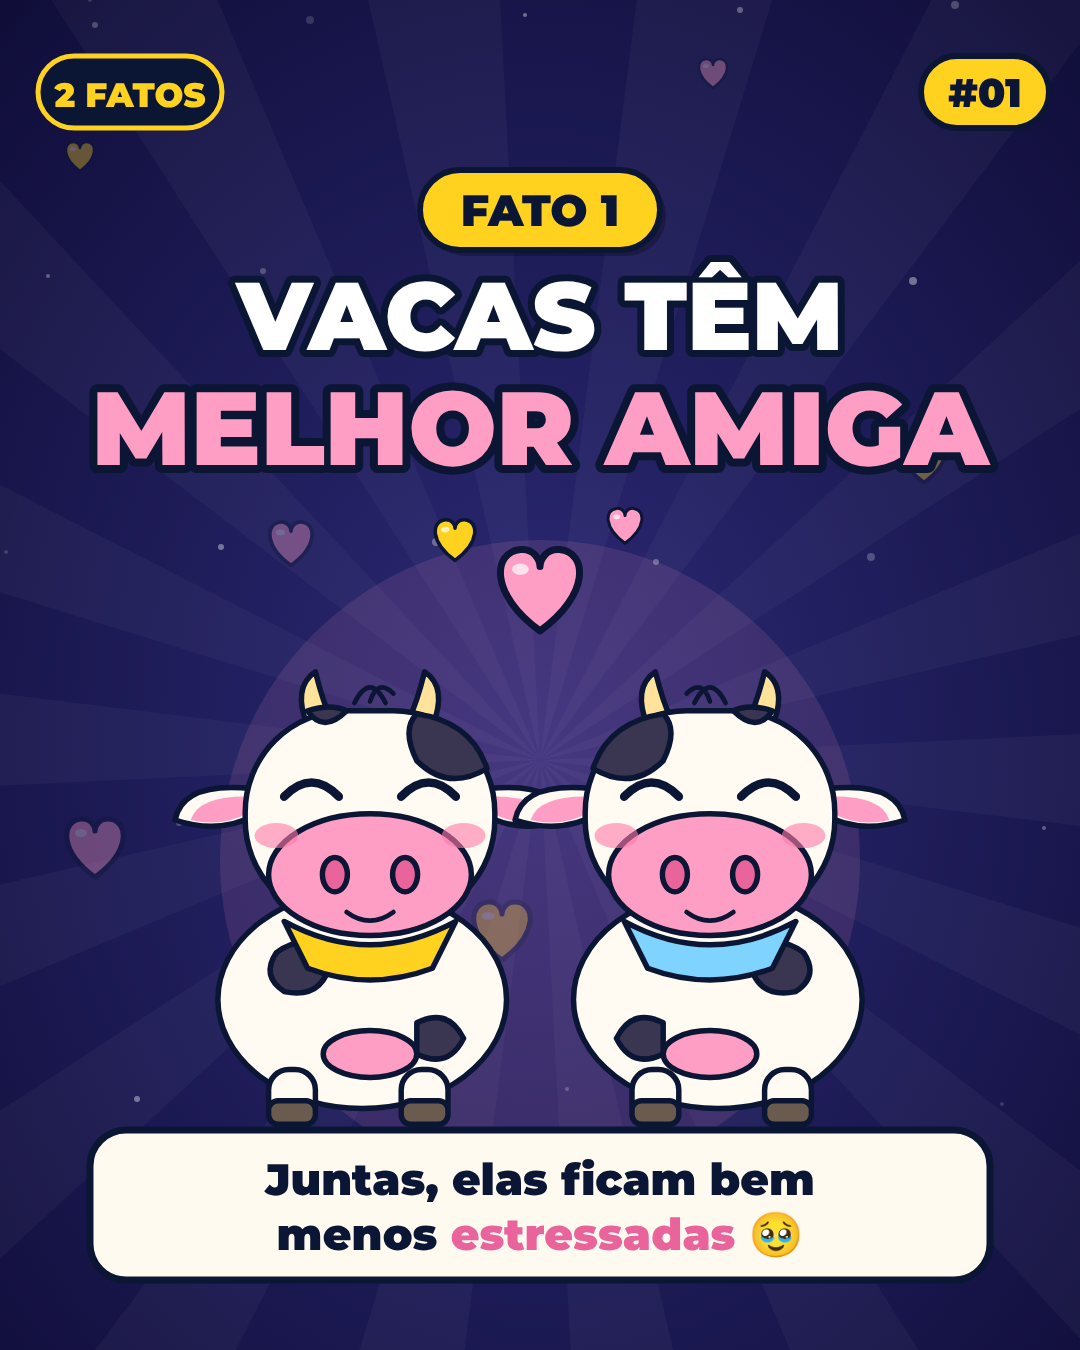
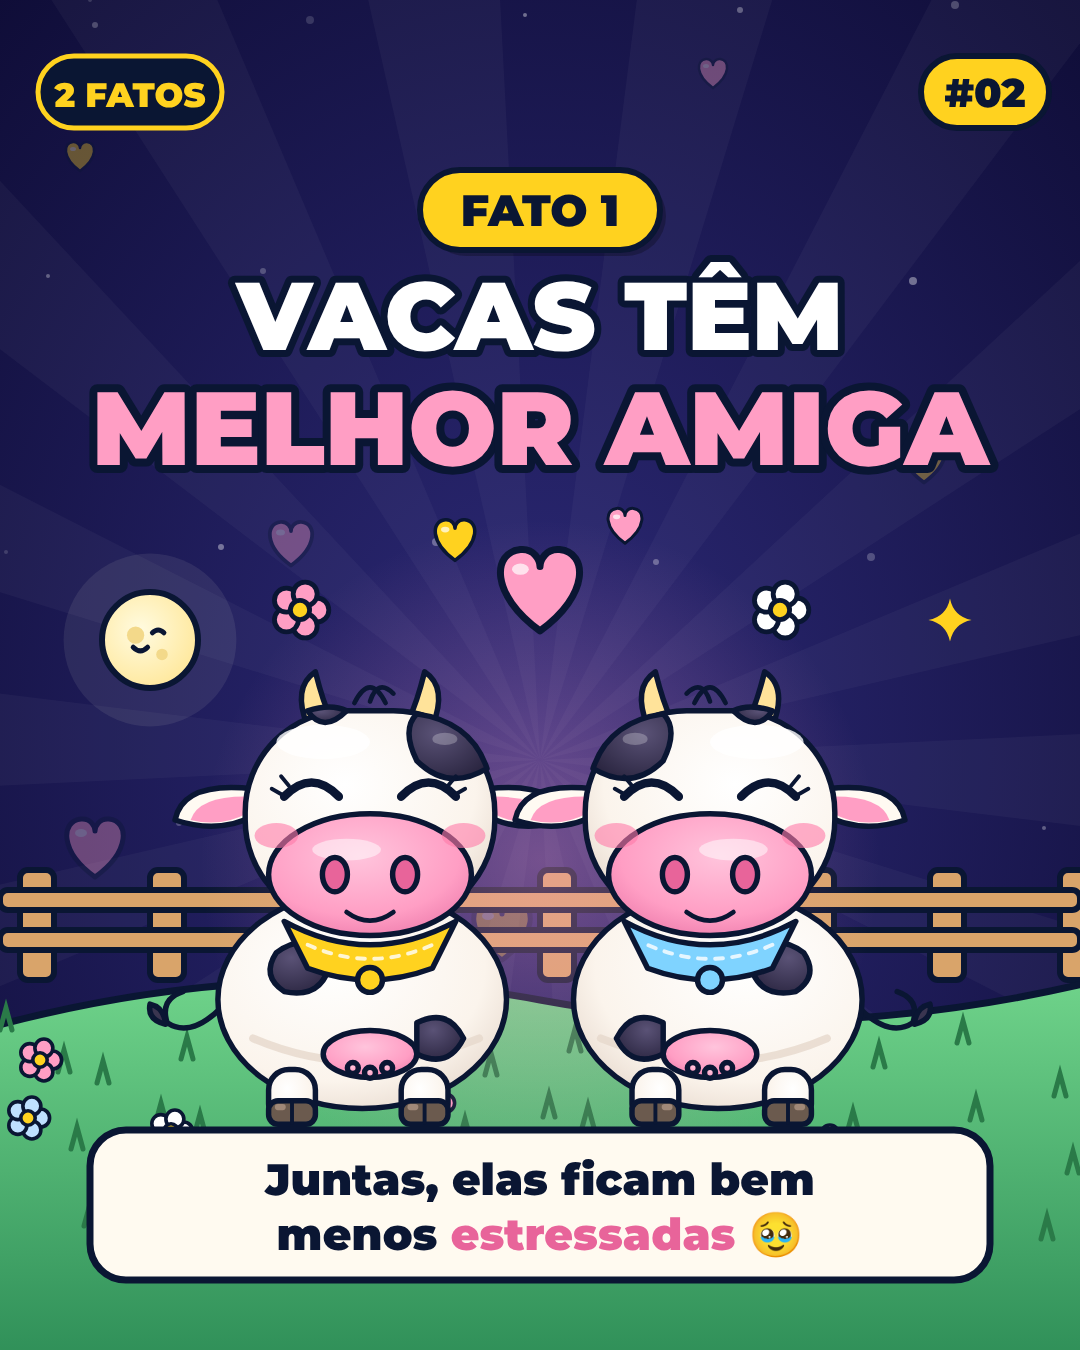
Carrossel fofinhos: mais detalhe + numeração por slide
Claude-Session: https://claude.ai/code/session_01466fSmg3pKuf6zqbkMuRWf

diff --git a/carrosseis/01-fofinhos/gerar.js b/carrosseis/01-fofinhos/gerar.js
@@ -3,7 +3,7 @@ const art=fs.readFileSync('/home/claude/oficina-remotion/src/art.js','utf8').rep
 const font='data:font/woff2;base64,'+fs.readFileSync('/home/claude/oficina-remotion/public/fonts/mont900.woff2').toString('base64');
 const lib=`
 const W=1080,H=1350, PK='#ff9ec4', PKD='#e8649a', CR='#fff4e6', BLU='#7fd3ff';
-function fundo(seed){ let o='<defs><radialGradient id="cbg" cx=".5" cy=".55" r=".8"><stop offset="0" stop-color="#2d2a78"/><stop offset="1" stop-color="#0d0b33"/></radialGradient></defs><rect width="1080" height="1350" fill="url(#cbg)"/>';
+function fundo(seed){ let o=defsFofo()+'<defs><radialGradient id="cbg" cx=".5" cy=".55" r=".8"><stop offset="0" stop-color="#2d2a78"/><stop offset="1" stop-color="#0d0b33"/></radialGradient></defs><rect width="1080" height="1350" fill="url(#cbg)"/>';
   for(let k=0;k<18;k++){const a=k*0.349+seed;o+='<path d="M540,760 L'+(540+Math.cos(a)*1600)+','+(760+Math.sin(a)*1600)+' L'+(540+Math.cos(a+0.17)*1600)+','+(760+Math.sin(a+0.17)*1600)+' Z" fill="#fff" opacity=".035"/>';}
   for(let i=0;i<26;i++){const x=(i*173+seed*90)%1080,y=(i*271)%1350,r=2+i%3; o+='<circle cx="'+x+'" cy="'+y+'" r="'+r+'" fill="#fff" opacity="'+(.15+(i%4)*.08)+'"/>';}
   for(let i=0;i<7;i++){const x=(i*211+60)%1040+20,y=(i*389+120)%1250+40,s=.5+(i%3)*.25; o+=coracao(x,y,s,i%2?PK:'#ffd21f',.35);}
@@ -13,49 +13,70 @@ function canto(n){ return '<g transform="translate(985 92)"><rect x="-64" y="-36
 function marca(){ return '<g transform="translate(130 92)"><rect x="-92" y="-36" width="184" height="72" rx="36" fill="#0a1633" stroke="#ffd21f" stroke-width="5"/><text y="15" font-family="M" font-weight="900" font-size="34" fill="#ffd21f" text-anchor="middle">2 FATOS</text></g>'; }
 function pill(x,y,txt,bg,fg,sz=44,w){ w=w||txt.length*sz*.66+70; return '<g transform="translate('+x+' '+y+')"><rect x="'+(-w/2+6)+'" y="-34" width="'+w+'" height="80" rx="40" fill="#000" opacity=".25"/><rect x="'+(-w/2)+'" y="-40" width="'+w+'" height="80" rx="40" fill="'+bg+'" stroke="#0a1633" stroke-width="6"/><text y="'+(sz*.36)+'" font-family="M" font-weight="900" font-size="'+sz+'" fill="'+fg+'" text-anchor="middle">'+txt+'</text></g>'; }
 function seta(x,y){ return '<g transform="translate('+x+' '+y+')">'+fTxt(-30,14,'DESLIZA',44,'#fff','end',10)+'<path d="M0,0 h70 m-26,-26 l26,26 l-26,26" fill="none" stroke="#ffd21f" stroke-width="14" stroke-linecap="round" stroke-linejoin="round"/></g>'; }
+
+function defsFofo(){ return '<defs>'+
+ '<radialGradient id="vBody" cx=".4" cy=".35" r=".75"><stop offset="0" stop-color="#ffffff"/><stop offset=".7" stop-color="#fbf4ec"/><stop offset="1" stop-color="#e6d8cc"/></radialGradient>'+
+ '<radialGradient id="vSpot" cx=".35" cy=".3" r=".8"><stop offset="0" stop-color="#5a5276"/><stop offset="1" stop-color="#2a2540"/></radialGradient>'+
+ '<radialGradient id="vSnout" cx=".45" cy=".35" r=".7"><stop offset="0" stop-color="#ffc4dc"/><stop offset=".7" stop-color="#ff9ec4"/><stop offset="1" stop-color="#ef7fae"/></radialGradient>'+
+ '<radialGradient id="oFur" cx=".4" cy=".3" r=".8"><stop offset="0" stop-color="#b98058"/><stop offset=".7" stop-color="#9b6a48"/><stop offset="1" stop-color="#734a30"/></radialGradient>'+
+ '<radialGradient id="oFace" cx=".5" cy=".4" r=".7"><stop offset="0" stop-color="#fff3df"/><stop offset="1" stop-color="#e9cfa8"/></radialGradient>'+
+ '<linearGradient id="gGrass" x1="0" y1="0" x2="0" y2="1"><stop offset="0" stop-color="#6fd38a"/><stop offset="1" stop-color="#2f8f58"/></linearGradient>'+
+ '<linearGradient id="gWater" x1="0" y1="0" x2="0" y2="1"><stop offset="0" stop-color="#5cc0ff"/><stop offset="1" stop-color="#1f5fb0"/></linearGradient>'+
+ '<radialGradient id="gMoon" cx=".4" cy=".4" r=".6"><stop offset="0" stop-color="#fffbe0"/><stop offset="1" stop-color="#ffe9a0"/></radialGradient>'+
+ '<radialGradient id="gGlow" cx=".5" cy=".5" r=".5"><stop offset="0" stop-color="#ff9ec4" stop-opacity=".35"/><stop offset="1" stop-color="#ff9ec4" stop-opacity="0"/></radialGradient>'+
+ '</defs>'; }
+function lua(x,y,r){ return '<circle cx="'+x+'" cy="'+y+'" r="'+(r*1.8)+'" fill="#fffbe0" opacity=".08"/><circle cx="'+x+'" cy="'+y+'" r="'+r+'" fill="url(#gMoon)" stroke="#0a1633" stroke-width="6"/><circle cx="'+(x-r*.3)+'" cy="'+(y-r*.1)+'" r="'+(r*.18)+'" fill="#f3d98a"/><circle cx="'+(x+r*.25)+'" cy="'+(y+r*.3)+'" r="'+(r*.12)+'" fill="#f3d98a"/><path d="M'+(x-r*.35)+','+(y+r*.15)+' q'+(r*.15)+','+(r*.15)+' '+(r*.3)+',0" fill="none" stroke="#0a1633" stroke-width="5" stroke-linecap="round"/><path d="M'+(x+r*.05)+','+(y-r*.15)+' q'+(r*.12)+','+(-r*.12)+' '+(r*.24)+',0" fill="none" stroke="#0a1633" stroke-width="5" stroke-linecap="round"/>'; }
+function brilho(x,y,s,c){ return '<path transform="translate('+x+' '+y+') scale('+s+')" d="M0,-24 Q4,-4 24,0 Q4,4 0,24 Q-4,4 -24,0 Q-4,-4 0,-24 Z" fill="'+c+'"/>'; }
+function flor(x,y,s,c){ let o='<g transform="translate('+x+' '+y+') scale('+s+')" stroke="#0a1633" stroke-width="4">'; for(let k=0;k<5;k++){const a=k*72*Math.PI/180; o+='<circle cx="'+(Math.cos(a)*14).toFixed(1)+'" cy="'+(Math.sin(a)*14).toFixed(1)+'" r="10" fill="'+c+'"/>';} return o+'<circle r="8" fill="#ffd21f"/></g>'; }
+function grama(y){ let o='<path d="M-20,'+(y+40)+' Q270,'+(y-40)+' 540,'+(y+10)+' T1100,'+(y-10)+' V1360 H-20 Z" fill="url(#gGrass)" stroke="#0a1633" stroke-width="7"/>';
+ for(let i=0;i<40;i++){const x=(i*97)%1080, yy=y+40+(i*53)%220; o+='<path d="M'+x+','+yy+' l6,-22 l6,22" fill="none" stroke="#2a7a48" stroke-width="5" stroke-linecap="round"/>';}
+ for(let i=0;i<9;i++) o+=flor((i*131+40)%1060,y+70+(i*71)%170,.9,['#ff9ec4','#ffffff','#bfe0ff'][i%3]);
+ return o; }
+function cerca(y){ let o='<g stroke="#0a1633" stroke-width="6" fill="#d9a46a">'; for(let x=20;x<1080;x+=130) o+='<rect x="'+x+'" y="'+(y-90)+'" width="34" height="110" rx="8"/>'; o+='<rect x="0" y="'+(y-70)+'" width="1080" height="20" rx="8"/><rect x="0" y="'+(y-30)+'" width="1080" height="20" rx="8"/></g>'; return o; }
+
 // vaca fofinha (cx,cy,s, dir 1/-1, olhos: 'aberto'|'feliz')
 function vaca(cx,cy,s,dir=1,olhos='aberto',lenco=null){
   let o='<g transform="translate('+cx+' '+cy+') scale('+(s*dir)+' '+s+')" stroke="#0a1633" stroke-width="7" stroke-linejoin="round" stroke-linecap="round">';
   // corpo
-  o+='<ellipse cx="-10" cy="230" rx="185" ry="140" fill="#fffaf2"/><path d="M-120,170 q40,-30 70,10 q-10,50 -60,40 q-30,-20 -10,-50 Z" fill="#3a3550"/><path d="M60,260 q40,-20 60,20 q-20,40 -60,20 Z" fill="#3a3550"/>';
-  o+='<rect x="-130" y="320" width="60" height="70" rx="26" fill="#fffaf2"/><rect x="40" y="320" width="60" height="70" rx="26" fill="#fffaf2"/><rect x="-130" y="360" width="60" height="30" rx="12" fill="#6b5a4e"/><rect x="40" y="360" width="60" height="30" rx="12" fill="#6b5a4e"/>';
-  o+='<ellipse cx="0" cy="300" rx="60" ry="30" fill="'+PK+'"/>';
+  o+='<path d="M-190,240 q-40,40 -70,20 q-10,-30 20,-40" fill="none" stroke-width="7"/><path d="M-262,262 q-24,-6 -20,-26 q18,4 20,26 Z" fill="#3a3550"/><ellipse cx="-10" cy="230" rx="185" ry="140" fill="url(#vBody)"/><path d="M-150,280 q140,60 290,0" fill="none" stroke="#e6d8cc" stroke-width="10" opacity=".8"/><path d="M-120,170 q40,-30 70,10 q-10,50 -60,40 q-30,-20 -10,-50 Z" fill="url(#vSpot)"/><path d="M60,260 q40,-20 60,20 q-20,40 -60,20 Z" fill="url(#vSpot)"/>';
+  o+='<rect x="-130" y="320" width="60" height="70" rx="26" fill="url(#vBody)"/><rect x="40" y="320" width="60" height="70" rx="26" fill="url(#vBody)"/><rect x="-130" y="360" width="60" height="30" rx="12" fill="#6b5a4e"/><rect x="40" y="360" width="60" height="30" rx="12" fill="#6b5a4e"/><path d="M-100,362 v26 M70,362 v26" stroke-width="5"/><rect x="-122" y="364" width="14" height="8" rx="4" fill="#a08878" stroke="none"/><rect x="48" y="364" width="14" height="8" rx="4" fill="#a08878" stroke="none"/>';
+  o+='<ellipse cx="0" cy="300" rx="60" ry="30" fill="url(#vSnout)"/><circle cx="-22" cy="318" r="7" fill="url(#vSnout)"/><circle cx="0" cy="324" r="7" fill="url(#vSnout)"/><circle cx="22" cy="318" r="7" fill="url(#vSnout)"/>';
   // orelhas e chifres
   o+='<path d="M-150,-40 q-90,-10 -100,40 q60,20 110,-10 Z" fill="#fffaf2"/><path d="M-160,-30 q-60,0 -70,30 q40,10 75,-10 Z" fill="'+PK+'" stroke="none"/>';
   o+='<path d="M150,-40 q90,-10 100,40 q-60,20 -110,-10 Z" fill="#fffaf2"/><path d="M160,-30 q60,0 70,30 q-40,10 -75,-10 Z" fill="'+PK+'" stroke="none"/>';
   o+='<path d="M-80,-120 q-20,-50 10,-70 q10,40 20,60 Z" fill="#ffe39a"/><path d="M80,-120 q20,-50 -10,-70 q-10,40 -20,60 Z" fill="#ffe39a"/>';
   // cabeça
-  o+='<rect x="-160" y="-140" width="320" height="270" rx="130" fill="#fffaf2"/>';
-  o+='<path d="M60,-136 q70,10 90,70 q-50,30 -90,-10 q-20,-40 0,-60 Z" fill="#3a3550"/><path d="M-30,-140 q-20,-10 -50,0 q20,30 50,0 Z" fill="#3a3550"/>';
+  o+='<rect x="-160" y="-140" width="320" height="270" rx="130" fill="url(#vBody)"/><ellipse cx="-60" cy="-100" rx="60" ry="22" fill="#fff" opacity=".8" stroke="none"/>';
+  o+='<path d="M60,-136 q70,10 90,70 q-50,30 -90,-10 q-20,-40 0,-60 Z" fill="url(#vSpot)"/><path d="M-30,-140 q-20,-10 -50,0 q20,30 50,0 Z" fill="url(#vSpot)"/><ellipse cx="96" cy="-104" rx="16" ry="8" fill="#fff" opacity=".25" stroke="none"/>';
   o+='<path d="M-20,-150 q20,-40 40,0" fill="none" stroke-width="6"/><path d="M0,-152 q10,-30 30,-10" fill="none" stroke-width="6"/>';
   // focinho
-  o+='<ellipse cx="0" cy="70" rx="130" ry="78" fill="'+PK+'"/><ellipse cx="-45" cy="70" rx="16" ry="22" fill="'+PKD+'"/><ellipse cx="45" cy="70" rx="16" ry="22" fill="'+PKD+'"/>';
+  o+='<ellipse cx="0" cy="70" rx="130" ry="78" fill="url(#vSnout)"/><ellipse cx="-30" cy="38" rx="44" ry="14" fill="#fff" opacity=".5" stroke="none"/><ellipse cx="-45" cy="70" rx="16" ry="22" fill="'+PKD+'"/><ellipse cx="45" cy="70" rx="16" ry="22" fill="'+PKD+'"/>';
   o+='<path d="M-30,118 q30,22 60,0" fill="none" stroke-width="6"/>';
   // olhos
-  if(olhos==='feliz') o+='<path d="M-110,-30 q35,-36 70,0" fill="none" stroke-width="11"/><path d="M40,-30 q35,-36 70,0" fill="none" stroke-width="11"/>';
+  if(olhos==='feliz') o+='<path d="M-110,-30 q35,-36 70,0" fill="none" stroke-width="11"/><path d="M40,-30 q35,-36 70,0" fill="none" stroke-width="11"/><path d="M-112,-32 l-14,-8 M-104,-44 l-10,-12 M108,-32 l14,-8 M100,-44 l10,-12" stroke-width="5"/>';
   else o+='<ellipse cx="-75" cy="-30" rx="30" ry="36" fill="#0a1633"/><ellipse cx="75" cy="-30" rx="30" ry="36" fill="#0a1633"/><circle cx="-64" cy="-44" r="11" fill="#fff" stroke="none"/><circle cx="86" cy="-44" r="11" fill="#fff" stroke="none"/><circle cx="-84" cy="-18" r="5" fill="#fff" stroke="none"/><circle cx="66" cy="-18" r="5" fill="#fff" stroke="none"/>';
   o+='<ellipse cx="-120" cy="20" rx="28" ry="16" fill="#ff7aa8" opacity=".6" stroke="none"/><ellipse cx="120" cy="20" rx="28" ry="16" fill="#ff7aa8" opacity=".6" stroke="none"/>';
   // sininho / lenço
-  if(lenco) o+='<path d="M-110,130 q110,60 220,0 l-30,60 q-80,30 -160,0 Z" fill="'+lenco+'"/>';
+  if(lenco) o+='<path d="M-110,130 q110,60 220,0 l-30,60 q-80,30 -160,0 Z" fill="'+lenco+'"/><path d="M-80,160 q80,36 160,0" fill="none" stroke="#fff" stroke-width="5" stroke-dasharray="10 12" opacity=".8"/><circle cx="0" cy="205" r="16" fill="'+lenco+'"/>';
   else o+='<path d="M-60,140 q60,26 120,0" fill="none" stroke="#c9a227" stroke-width="12"/><circle cx="0" cy="175" r="30" fill="#ffd21f"/><circle cx="0" cy="186" r="7" fill="#0a1633" stroke="none"/>';
   return o+'</g>'; }
 // lontra fofinha a flutuar de barriga para cima
 function lontra(cx,cy,s,dir=1,maoX=0){
   let o='<g transform="translate('+cx+' '+cy+') scale('+(s*dir)+' '+s+')" stroke="#0a1633" stroke-width="7" stroke-linejoin="round" stroke-linecap="round">';
   o+='<path d="M120,40 q120,10 160,60 q-60,30 -170,0 Z" fill="#8a5a3c"/>';
-  o+='<ellipse cx="0" cy="40" rx="170" ry="85" fill="#9b6a48"/><ellipse cx="10" cy="30" rx="120" ry="55" fill="#e8c9a0" stroke="none"/>';
-  o+='<ellipse cx="150" cy="95" rx="38" ry="20" fill="#7a4e32"/>';
+  o+='<ellipse cx="0" cy="40" rx="170" ry="85" fill="url(#oFur)"/><ellipse cx="10" cy="30" rx="120" ry="55" fill="url(#oFace)" stroke="none"/><path d="M-60,20 q10,-10 20,0 M-10,40 q10,-10 20,0 M40,20 q10,-10 20,0 M-30,60 q10,-10 20,0 M30,60 q10,-10 20,0" fill="none" stroke="#c9a77c" stroke-width="4"/>';
+  o+='<ellipse cx="150" cy="95" rx="38" ry="20" fill="#7a4e32"/><path d="M130,100 v10 M148,104 v10 M166,100 v10" stroke-width="4"/>';
   // cabeça
-  o+='<circle cx="-170" cy="-10" r="95" fill="#9b6a48"/><ellipse cx="-185" cy="15" rx="70" ry="58" fill="#f3dcb8" stroke="none"/>';
-  o+='<circle cx="-235" cy="-85" r="22" fill="#9b6a48"/><circle cx="-110" cy="-90" r="22" fill="#9b6a48"/>';
+  o+='<circle cx="-170" cy="-10" r="95" fill="url(#oFur)"/><ellipse cx="-185" cy="15" rx="70" ry="58" fill="url(#oFace)" stroke="none"/><ellipse cx="-200" cy="-70" rx="34" ry="12" fill="#fff" opacity=".25" stroke="none"/>';
+  o+='<circle cx="-235" cy="-85" r="22" fill="url(#oFur)"/><circle cx="-235" cy="-85" r="10" fill="#e8a88a" stroke="none"/><circle cx="-110" cy="-90" r="22" fill="url(#oFur)"/><circle cx="-110" cy="-90" r="10" fill="#e8a88a" stroke="none"/>';
   o+='<path d="M-225,-20 q18,-16 36,0" fill="none" stroke-width="8"/><path d="M-160,-24 q18,-16 36,0" fill="none" stroke-width="8"/>';
-  o+='<ellipse cx="-178" cy="12" rx="20" ry="14" fill="#3a2418"/><path d="M-178,26 v10 m0,0 q-14,12 -26,2 m26,-2 q14,12 26,2" fill="none" stroke-width="5"/>';
+  o+='<ellipse cx="-178" cy="12" rx="20" ry="14" fill="#3a2418"/><ellipse cx="-184" cy="7" rx="7" ry="4" fill="#fff" opacity=".7" stroke="none"/><path d="M-178,26 v10 m0,0 q-14,12 -26,2 m26,-2 q14,12 26,2" fill="none" stroke-width="5"/>';
   o+='<path d="M-230,20 l-50,-8 M-230,32 l-50,6 M-128,20 l46,-10 M-128,32 l46,4" stroke-width="3"/>';
   o+='<ellipse cx="-235" cy="22" rx="18" ry="10" fill="#ff8fb4" opacity=".7" stroke="none"/><ellipse cx="-120" cy="18" rx="18" ry="10" fill="#ff8fb4" opacity=".7" stroke="none"/>';
   if(maoX===-999){ o+='<path d="M-40,50 Q-150,120 -268,98" fill="none" stroke="#7a4e32" stroke-width="30"/><path d="M-40,50 Q-150,120 -268,98" fill="none" stroke="#9b6a48" stroke-width="16"/>'; return o+'</g>'; }
   o+='<path d="M-70,-10 q'+(20+maoX)+',-60 '+(50+maoX)+',-70" fill="none" stroke="#7a4e32" stroke-width="30"/><path d="M-70,-10 q'+(20+maoX)+',-60 '+(50+maoX)+',-70" fill="none" stroke="#9b6a48" stroke-width="16"/>';
   return o+'</g>'; }
-function agua(y,t){ let o='<path d="M0,'+y+' Q135,'+(y-30)+' 270,'+y+' T540,'+y+' T810,'+y+' T1080,'+y+' V1350 H0 Z" fill="#3fa4ff" opacity=".85"/><path d="M0,'+(y+40)+' Q135,'+(y+10)+' 270,'+(y+40)+' T540,'+(y+40)+' T810,'+(y+40)+' T1080,'+(y+40)+' V1350 H0 Z" fill="#2a7fd4"/>';
+function agua(y,t){ let o='<path d="M0,'+y+' Q135,'+(y-30)+' 270,'+y+' T540,'+y+' T810,'+y+' T1080,'+y+' V1350 H0 Z" fill="url(#gWater)" opacity=".9"/><path d="M0,'+(y+40)+' Q135,'+(y+10)+' 270,'+(y+40)+' T540,'+(y+40)+' T810,'+(y+40)+' T1080,'+(y+40)+' V1350 H0 Z" fill="#2a7fd4"/>';
   for(let i=0;i<9;i++) o+='<path d="M'+(60+i*120)+','+(y+100+(i%3)*60)+' q20,-12 40,0" fill="none" stroke="#bfe9ff" stroke-width="6" stroke-linecap="round" opacity=".7"/>';
   return o; }
 `;
@@ -64,27 +85,30 @@ const S=[];
 S.push(`(()=>{let o=fundo(0)+marca()+canto('01');
  o+=fTxt(540,300,'2 FATOS',92,'#fff')+fTxt(540,430,'FOFINHOS',150,'#ff9ec4','middle',18);
  o+=pill(540,540,'QUE VÃO TE DERRETER','#ffd21f','#0a1633',44);
- o+='<circle cx="540" cy="920" r="300" fill="#ff9ec4" opacity=".12"/>';
- o+=vaca(390,860,.85,1,'feliz','#ff9ec4')+lontra(800,1010,.8,-1,30);
+ o+=lua(880,690,60)+brilho(140,640,1,'#ffd21f')+brilho(960,860,.7,'#fff');
+ o+=grama(1040)+'<path d="M600,1110 Q840,1060 1100,1100 V1360 H600 Z" fill="url(#gWater)" stroke="#0a1633" stroke-width="7"/>';
+ o+='<circle cx="540" cy="920" r="320" fill="url(#gGlow)"/>';
+ o+=vaca(340,880,.82,1,'feliz','#ff9ec4')+lontra(830,1090,.68,-1,30);
  o+=coracao(560,700,1.6,'#ff9ec4')+coracao(470,640,.9,'#ffd21f')+coracao(650,610,.7,'#ff9ec4');
  o+=seta(890,1250);
  return o;})()`);
 // 2 · FATO 1 — vacas
-S.push(`(()=>{let o=fundo(1)+marca()+canto('01');
+S.push(`(()=>{let o=fundo(1)+marca()+canto('02');
  o+=pill(540,210,'FATO 1','#ffd21f','#0a1633',44,240);
  o+=fTxt(540,350,'VACAS TÊM',96,'#fff')+fTxt(540,465,'MELHOR AMIGA',104,'#ff9ec4','middle',16);
- o+='<circle cx="540" cy="860" r="320" fill="#ff9ec4" opacity=".12"/>';
- o+=vaca(370,820,.78,1,'feliz','#ffd21f')+vaca(710,820,.78,-1,'feliz','#7fd3ff');
+ o+=lua(150,640,48)+brilho(950,620,.9,'#ffd21f')+cerca(960)+grama(990);
+ o+='<circle cx="540" cy="860" r="340" fill="url(#gGlow)"/>';
+ o+=vaca(370,820,.78,1,'feliz','#ffd21f')+vaca(710,820,.78,-1,'feliz','#7fd3ff')+flor(300,610,1.2,'#ff9ec4')+flor(780,610,1.2,'#fff');
  o+=coracao(540,600,1.4,'#ff9ec4')+coracao(455,545,.7,'#ffd21f')+coracao(625,530,.6,'#ff9ec4');
  o+='<rect x="90" y="1130" width="900" height="150" rx="36" fill="#fffaf0" stroke="#0a1633" stroke-width="7"/>';
  o+='<text x="540" y="1195" font-family="M" font-weight="900" font-size="44" fill="#0a1633" text-anchor="middle">Juntas, elas ficam bem</text><text x="540" y="1250" font-family="M" font-weight="900" font-size="44" fill="#0a1633" text-anchor="middle">menos <tspan fill="#e8649a">estressadas</tspan> 🥹</text>';
  return o;})()`);
 // 3 · FATO 2 — lontras
-S.push(`(()=>{let o=fundo(2)+marca()+canto('01');
+S.push(`(()=>{let o=fundo(2)+marca()+canto('03');
  o+=pill(540,210,'FATO 2','#ffd21f','#0a1633',44,240);
  o+=fTxt(540,350,'LONTRAS DORMEM',90,'#fff')+fTxt(540,465,'DE MÃOS DADAS',104,'#ff9ec4','middle',16);
  o+='<g opacity=".9">'+[0,1,2,3,4].map(i=>'<circle cx="'+(200+i*170)+'" cy="'+(620+(i%2)*40)+'" r="'+(4+i%3)+'" fill="#fff"/>').join('')+'</g>';
- o+=agua(900,0);
+ o+=lua(880,640,52)+brilho(160,560,.9,'#ffd21f')+agua(900,0)+'<ellipse cx="880" cy="1000" rx="60" ry="10" fill="#fffbe0" opacity=".35"/><ellipse cx="880" cy="1030" rx="40" ry="7" fill="#fffbe0" opacity=".25"/>';
  o+=lontra(320,880,.78,-1,-999)+lontra(760,880,.78,1,-999);
  o+='<ellipse cx="540" cy="956" rx="40" ry="26" fill="#9b6a48" stroke="#0a1633" stroke-width="6"/><path d="M522,946 v18 M540,943 v22 M558,946 v18" stroke="#7a4e32" stroke-width="5" stroke-linecap="round"/>';
  o+=coracao(540,770,1.1,'#ff9ec4');
@@ -93,10 +117,10 @@ S.push(`(()=>{let o=fundo(2)+marca()+canto('01');
  o+='<text x="540" y="1195" font-family="M" font-weight="900" font-size="44" fill="#0a1633" text-anchor="middle">Pra corrente não separar</text><text x="540" y="1250" font-family="M" font-weight="900" font-size="44" fill="#0a1633" text-anchor="middle">uma da <tspan fill="#e8649a">outra</tspan> 🥹</text>';
  return o;})()`);
 // 4 · FINAL — manda pra sua melhor amiga
-S.push(`(()=>{let o=fundo(3)+marca()+canto('01');
+S.push(`(()=>{let o=fundo(3)+marca()+canto('04');
  o+=fTxt(540,280,'MANDA PRA SUA',96,'#fff')+fTxt(540,410,'MELHOR AMIGA',120,'#ff9ec4','middle',18);
- o+='<circle cx="540" cy="820" r="300" fill="#ff9ec4" opacity=".14"/>';
- o+=vaca(400,800,.72,1,'feliz','#ff9ec4')+vaca(680,800,.72,-1,'feliz','#ffd21f');
+ o+=grama(960)+'<circle cx="540" cy="820" r="340" fill="url(#gGlow)"/>'+brilho(160,600,1,'#ffd21f')+brilho(930,640,.8,'#fff');
+ o+=vaca(400,800,.72,1,'feliz','#ff9ec4')+vaca(680,800,.72,-1,'feliz','#ffd21f')+flor(330,590,1.1,'#fff')+flor(750,590,1.1,'#ff9ec4');
  o+=coracao(540,560,1.5,'#ff9ec4')+coracao(430,520,.8,'#ffd21f')+coracao(650,505,.8,'#ff9ec4')+coracao(540,470,.5,'#ffd21f');
  o+='<g transform="translate(540 1135)"><rect x="-300" y="-50" width="600" height="100" rx="50" fill="#ffd21f" stroke="#0a1633" stroke-width="7"/><path d="M-230,-14 L-180,0 L-230,14 Z M-180,0 L-235,-30 L-215,0 L-235,30 Z" fill="#0a1633"/><text x="30" y="16" font-family="M" font-weight="900" font-size="46" fill="#0a1633" text-anchor="middle">ENVIA AGORA</text></g>';
  o+=pill(540,1265,'SEGUE: TODO DIA MAIS 2 FATOS','#0a1633','#fff',32,640);
